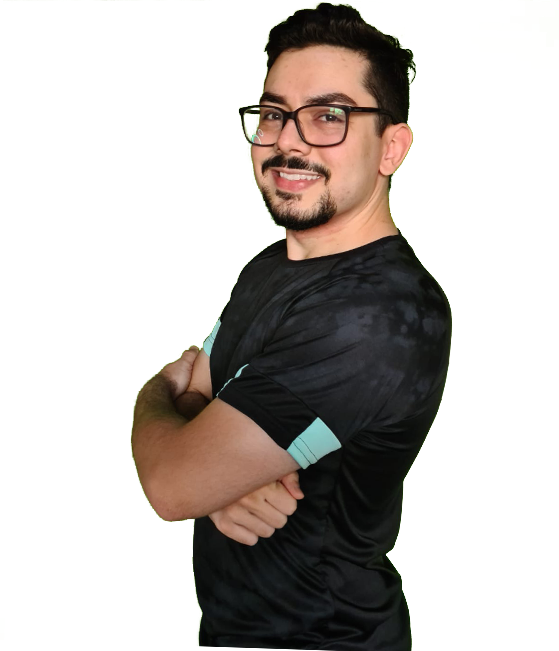
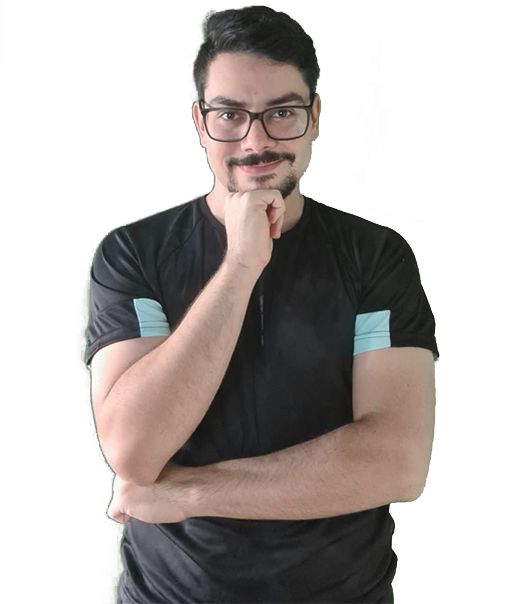
Atualizações nas imagens e hospedando no GitHub

diff --git a/index.html b/index.html
@@ -35,24 +35,42 @@
         <section id="home" class="home">
             <article class="home-text">
                 <h4 class="home-text-h4">Seja bem-vindo a minha página!</h4>
-                <h1 class="home-text-h1">Um eterno estudante em busca da minha primeira oportunidade de carreira!</h1>
+                <h1 class="home-text-h1">Um eterno estudante em busca de uma oportunidade de carreira!</h1>
                 <a class="home-button" href="https://wa.me/5534993073565?text=Oi João tudo bem? Meu nome é */*/*coloque seu nome aqui*/*/*, te encontrei pelo seu site de apresentação e gostaria de te conhecer melhor! :)" target="_blank">
                     Quer me conhecer melhor? Chama no zap!
                 </a>
             </article>
-            <img src="img\euMostrandoSemFundo.png" class="home-img">
+            <img src="img\euBraçosCruzadosSemFundo.png" class="home-img">
         </section>
 
         <!-- 3. Seção ABOUT ME -->
 
-        <section id="aboutMe" class="aboutMe">
-            <img src="img\euApontandoSemFundo.png" class="aboutMe-img">
+        <section id="aboutMe" class="aboutMeSection">
+            <img src="img\euEnquadrando.png" class="aboutMe-img">
             <article class="aboutMe-text">
-                <p class="aboutMe-paragraph1">Eaí meu caro visitante tudo certo? Tenho 26 anos e sou mineiro, nascido e residente de Uberlândia. Desde moleque sempre estive ligado a informática mas nunca havia pensado em me profissionalizar na área.</p>
-                <p class="aboutMe-paragraph2">Sou formado em direito (2019) mas não consegui me identificar com a profissão em si, foi quando eu tomei a decisão de migrar para a área de tecnologia onde sempre estive ligado a maior parte de minha vida.</p>
+                <div class="container">
+                    <p>
+                        Eaí meu caro visitante tudo certo? Tenho 26 anos, sou mineiro nascido e residente de Uberlândia. 
+                        Desde moleque sempre estive conectado a informática mas nunca havia pensado em me profissionalizar na área. 
+                        <span class="read-more-text">
+                            Sou formado em direito (2019) mas não consegui me identificar com a profissão em si, 
+                            foi quando eu tomei a decisão de migrar para a área de tecnologia onde sempre estive ligado a maior parte de minha vida.
+                            Este último ano de aprendizado tem sido incrível pra mim, 
+                            estou "aprendendo a aprender" no universo da programação e tem sido desafiador e motivador ao mesmo tempo.
+                            No final de 2022 termino o curso de Análise e Desenvolvimento de Sistemas e atualmente estou estudando muito sobre front-end (HTML, CSS, JavaScript). 
+                            Minha vontade é ir além aprendendo e dominando as tecnologias necessárias da minha área para desempenhar minha função com qualidade e me tornar um Desenvolvedor Full Stack.
+                            Atuamente estou em busca de uma oportunidade na área, 
+                            sou professor de Fitdance também e curto passar a maior parte do meu tempo jogando no PC e patinar nas horas vagas.
+                        </span>
+                    </p>
+                    <span class="read-more-button">Mostrar mais...</span>
+
+                </div>
+                <!-- <p class="aboutMe-paragraph1">Eaí meu caro visitante tudo certo? Tenho 26 anos e sou mineiro, nascido e residente de Uberlândia. Desde moleque sempre estive ligado a informática mas nunca havia pensado em me profissionalizar na área.</p> -->
+                <!-- <p class="aboutMe-paragraph2">Sou formado em direito (2019) mas não consegui me identificar com a profissão em si, foi quando eu tomei a decisão de migrar para a área de tecnologia onde sempre estive ligado a maior parte de minha vida.</p>
                 <p class="aboutMe-paragraph3">Este último ano de aprendizado tem sido incrível pra mim, estou "aprendendo a aprender" no universo da programação e tem sido desafiador e motivador ao mesmo tempo.</p>
                 <p class="aboutMe-paragraph4">No final de 2022 termino o curso de Análise e Desenvolvimento de Sistemas e atualmente estou estudando muito sobre front-end (HTML, CSS, JavaScript). Minha vontade é ir além aprendendo e dominando as tecnologias necessárias da minha área para desempenhar minha função com qualidade.</p>
-                <p class="aboutMe-paragraph5">Atuamente estou em busca de uma oportunidade na área, sou professor de Fitdance também e curto passar a maior parte do meu tempo jogando no PC e patinar nas horas vagas.</p>
+                <p class="aboutMe-paragraph5">Atuamente estou em busca de uma oportunidade na área, sou professor de Fitdance também e curto passar a maior parte do meu tempo jogando no PC e patinar nas horas vagas.</p> -->
             </article>
         </section>
 
@@ -72,7 +90,7 @@
                     <p class="curriculum-paragraph2-2">&#x25B8; Curso Superior de Tecnologia (CST) em Análise e Desenvolvimento de Sistemas (2022) pela faculdade UNOPAR/PITÁGORAS, previsão de conclusão em DEZ/2022;</p>
                     <p class="curriculum-paragraph2-3">&#x25B8; Curso de JavaScript (Roger Melo) previsão de conclusão FEV/2023.</p>
                 </li>
-                <p class="curriculum-paragraph3">&#x2713; Tecnologias</p>
+                <p class="curriculum-paragraph3">&#x2713; Tecnologias e Linguagens</p>
                 <li class="tecnologias">
                     
                     <i class='bx bxl-html5' id="html-icon"></i>
@@ -92,7 +110,7 @@
                     <p class="curriculum-paragraph4-5">&#x25B8; Licença de Instrutor Fitdance ativa</p>
                 </li>
             </div>
-                <img src="img\euBraçosCruzadosSemFundo.png" class="curriculum-img">
+                <img src="img\euPensativo.png" class="curriculum-img">
 
         </section>
 

diff --git a/style.css b/style.css
@@ -134,13 +134,13 @@ body{
 }
 
 .home-img {
-    padding: 40px 0px 0px 0px;
-    width: 55%;
+    padding: 70px 0px 0px 0px;
+    height: 900px;
 }
 
                                         /* 3. Seção ABOUT ME */
 
-.aboutMe {
+.aboutMeSection {
     max-width: 100%;
     display: flex;
     align-items: center;
@@ -150,16 +150,49 @@ body{
     background: #d2fffe;
 }
 
-.aboutMe-text .aboutMe-paragraph1, .aboutMe-paragraph2, .aboutMe-paragraph3, .aboutMe-paragraph4, .aboutMe-paragraph5 {
+.aboutMe-img {
+    height: 850px;
+}
+
+.aboutMe-text {
+    display: flex;
+    flex-direction: column;
+    color: var(--black);
+}
+
+.container {
+    padding: 2rem;
+    background-color: #fff;
+    border-radius: 1rem;
+    line-height: 1.4rem;
+    box-shadow: 0 0 1rem rgba(0, 0, 0,.1);
+    font-size: 1.4rem;
+    line-height: 2rem;
+    text-justify: auto;
+}
+
+.read-more-button {
+    color: var(--darkCyan);
+    cursor: pointer;
+}
+
+.read-more-text {
+    display: none;
+}
+
+.read-more-text--show {
+    display: inline;
+}
+
+/* .aboutMe-text .aboutMe-paragraph1, .aboutMe-paragraph2, .aboutMe-paragraph3, .aboutMe-paragraph4, .aboutMe-paragraph5 {
     display: flex;
     justify-content: center;
     text-align: justify;
     align-items: center;
     font-size: 1.5rem;
     line-height: 2rem;
-    /* padding: 30px 0px 0px 40px; */
     margin: 30px 0px 0px 40px;
-}
+} */
 
                                         /* 4. Seção CURRICULUM */
 
@@ -174,7 +207,7 @@ body{
 }
 
 .curriculum-text {
-    font-size: 1.2rem;
+    font-size: 1.1rem;
 }
 
 .curriculum-paragraph1, .curriculum-paragraph2, .curriculum-paragraph3, .curriculum-paragraph4 {
@@ -184,7 +217,7 @@ body{
 }
 
 .curriculum-img {
-    height: 650px;
+    height: 750px;
 }
 
 .tecnologias {
@@ -226,10 +259,6 @@ body{
 
 #javascript-icon {
     color: #f0db4f;
-}
-
-.curriculum-img {
-    max-width: 450px;
 }
 
                                         /* 5. Seção Contatos */
@@ -277,7 +306,7 @@ body{
 #linkedin-icon, #github-icon, #whatsapp-icon, #instagram-icon, #twitter-icon {
     list-style: none;
     flex-direction: row;
-    font-size: 6rem;
+    font-size: 5rem;
     
 }
 

diff --git a/script.js b/script.js
@@ -7,3 +7,14 @@ menu.addEventListener('click', () => {
 })
 
 // BOTÕES E EVENTOS DE CLICK
+
+    const button = document.querySelector('.read-more-button')
+    const hiddenText = document.querySelector('.read-more-text')
+
+    button.addEventListener('click', event => {
+        hiddenText.classList.toggle('read-more-text--show')
+
+        button.textContent = button.textContent.includes('Mostrar mais...')
+        ? 'Mostrar menos...' 
+        : 'Mostrar mais...'
+    })
